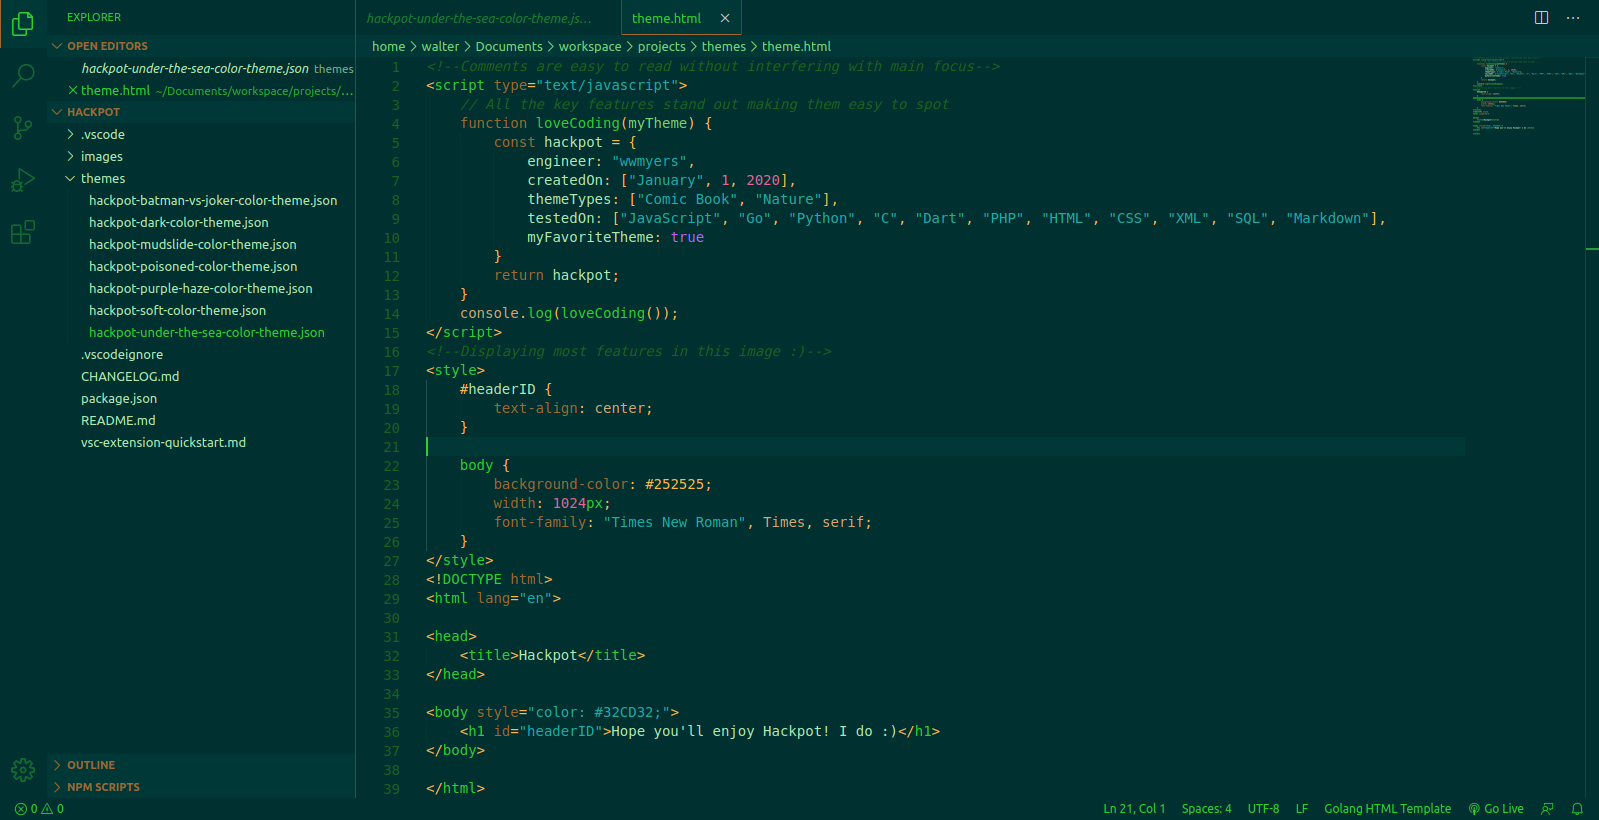
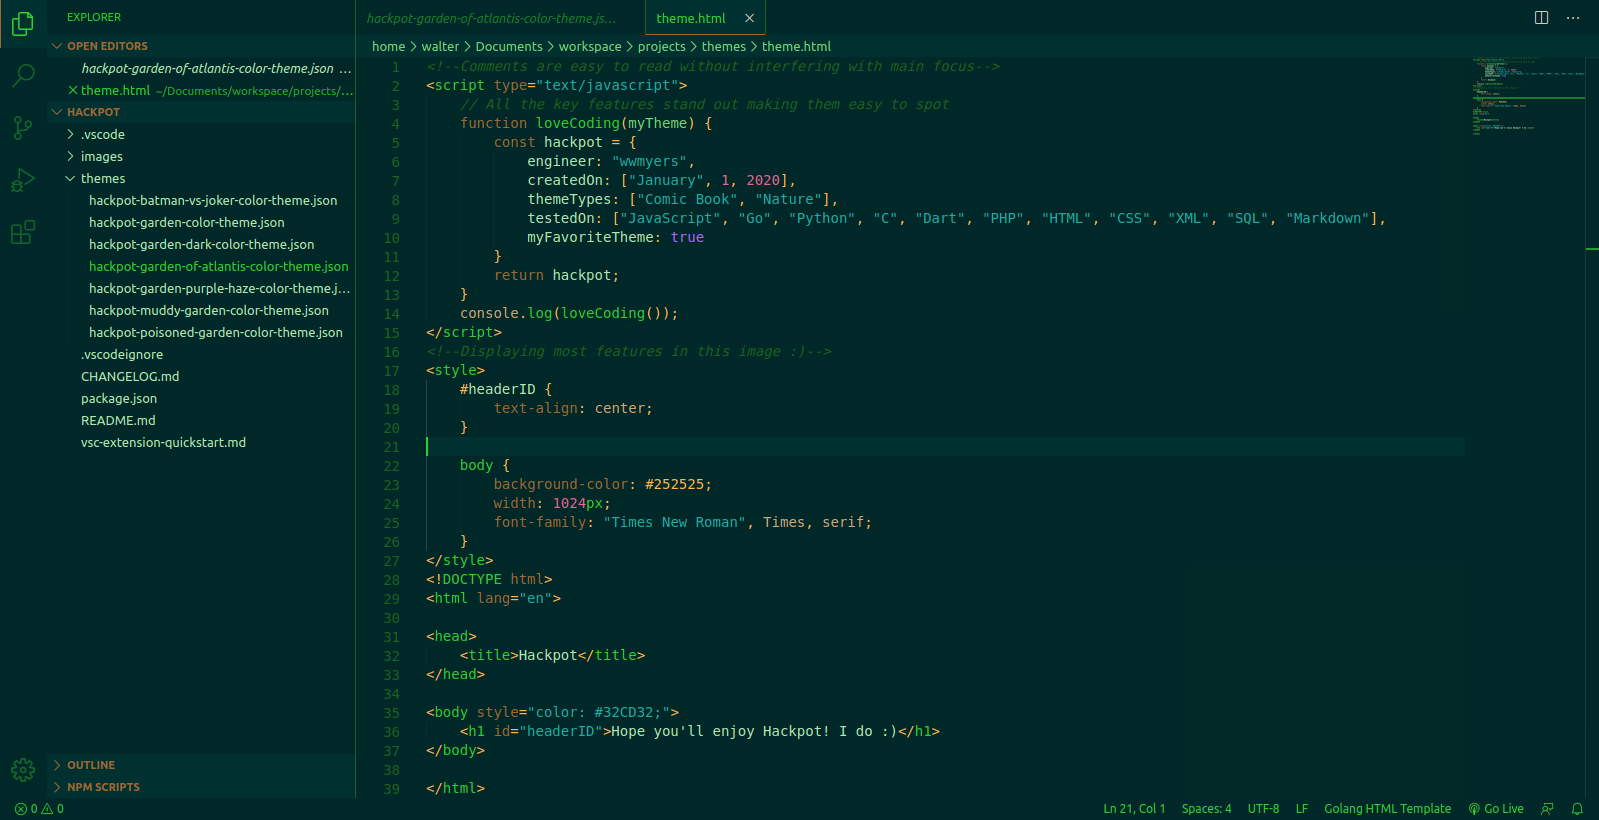
Add files via upload

diff --git a/CHANGELOG.md b/CHANGELOG.md
@@ -5,6 +5,7 @@
 ### Apr 5 2020
 * Changed the names of the nature themes for the last time
   * Hackpot is more of a list of themes now, not really the name of my nature theme like from when I started this
+* Darkened the background of Garden Of Atlantis a lil, much better color clarity
 
 ### Apr 4 2020
 * Darkened the new tan color for the nature themes 5%
